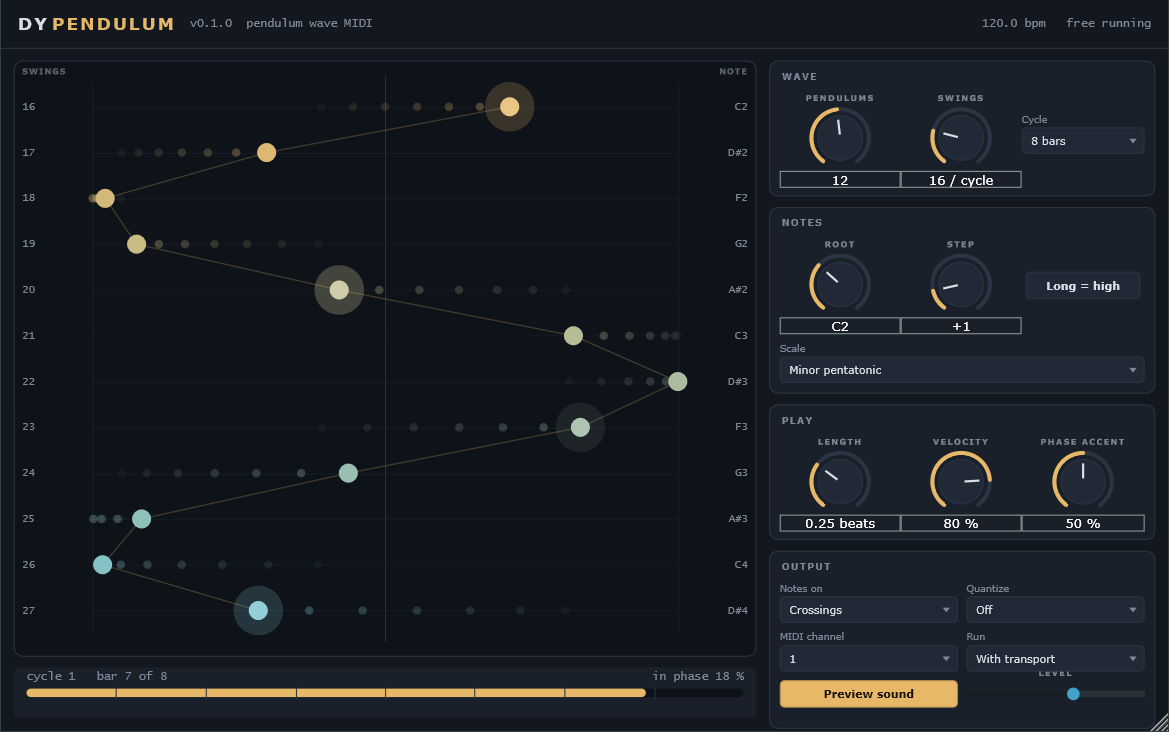
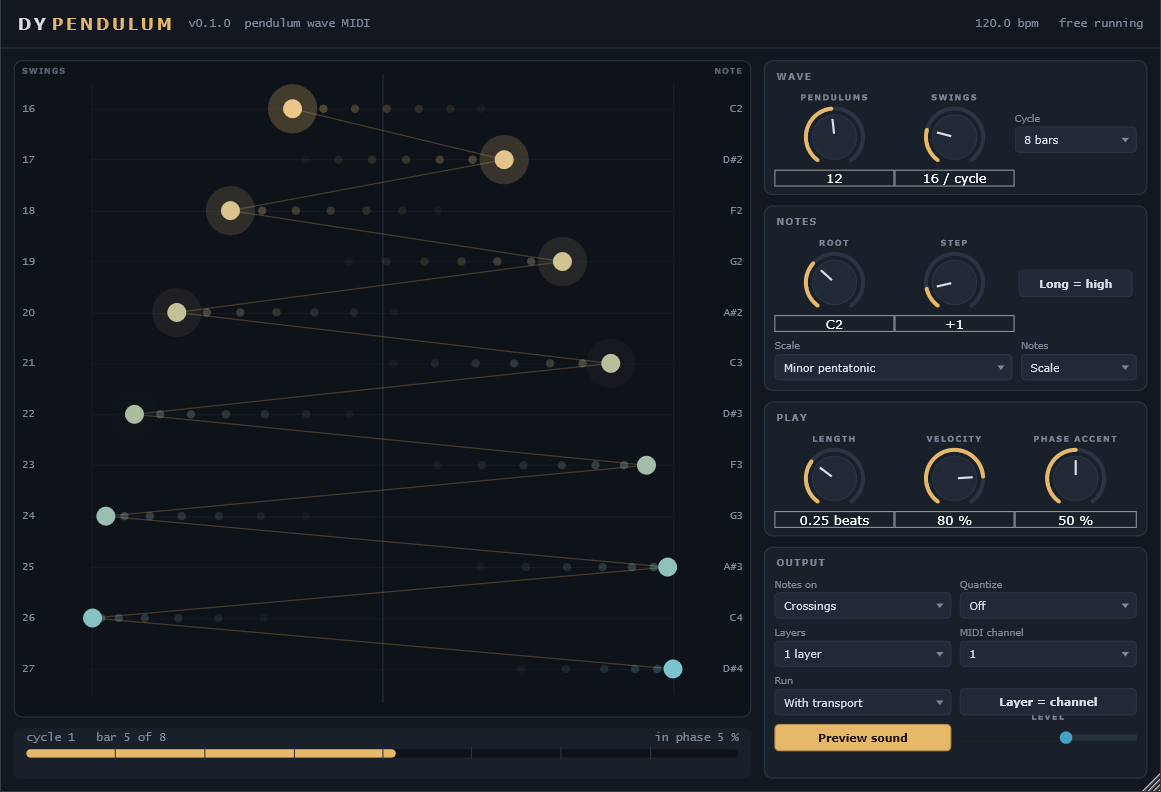
DY Pendulum 0.2.0: layers and drum pads to drive other tracks
- Notes: Drum pads mode, pendulum k plays C1 + k (one Drum Rack pad each)
- Layers 1-4: neighbouring pendulums in groups, each group's scale in its own
  two-octave band, so receiving tracks pick a layer with Live's Pitch device
- Layer = channel: each layer also on its own MIDI channel (multitimbral / hardware)
- Display colours the layers and shows channels; tests for pads, layer bands
  and per-layer channels

diff --git a/Pendulum/Source/PluginEditor.cpp b/Pendulum/Source/PluginEditor.cpp
@@ -85,7 +85,8 @@ void WaveView::paint (juce::Graphics& g)
     {
         const float y = area.getY() + (k + 0.5f) * rowH;
         const float t = n > 1 ? static_cast<float> (k) / static_cast<float> (n - 1) : 0.0f;
-        const auto col = Colours::brass.interpolatedWith (Colours::teal, t);
+        static const juce::Colour layerCols[4] = { Colours::brass, Colours::teal, Colours::lilac, juce::Colour (0xffe58f8f) };
+        const auto col = e.getParams().layers > 1 ? layerCols[e.layerOf (k)] : Colours::brass.interpolatedWith (Colours::teal, t);
         g.setColour (Colours::line.withAlpha (0.25f));
         g.drawHorizontalLine (juce::roundToInt (y), cx - amp, cx + amp);
 
@@ -112,7 +113,9 @@ void WaveView::paint (juce::Graphics& g)
 
         g.setColour (Colours::dim);
         g.setFont (monoFont (10.0f));
-        g.drawText (juce::MidiMessage::getMidiNoteName (e.noteOf (k), true, true, 3), juce::Rectangle<float> (r.getRight() - 52.0f, y - 7.0f, 44.0f, 14.0f),
+        juce::String label = juce::MidiMessage::getMidiNoteName (e.noteOf (k), true, true, 3);
+        if (e.getParams().layerChannels) label << " ch" << e.channelOf (k);
+        g.drawText (label, juce::Rectangle<float> (r.getRight() - 58.0f, y - 7.0f, 50.0f, 14.0f),
                     juce::Justification::centredRight);
         g.drawText (juce::String (static_cast<int> (e.swingsOf (k))), juce::Rectangle<float> (r.getX() + 8.0f, y - 7.0f, 40.0f, 14.0f),
                     juce::Justification::centredLeft);
@@ -158,15 +161,22 @@ PendulumEditor::PendulumEditor (PendulumProcessor& p)
       accent (p.apvts, PID::accent, "Phase accent"), level (p.apvts, PID::previewLevel, "Level"),
       cycleBars (p.apvts, PID::cycleBars, "Cycle"), trigger (p.apvts, PID::trigger, "Notes on"), quantize (p.apvts, PID::quantize, "Quantize"),
       scale (p.apvts, PID::scale, "Scale"), channel (p.apvts, PID::channel, "MIDI channel"), run (p.apvts, PID::run, "Run"),
-      descending (p.apvts, PID::descending, "Long = high"), preview (p.apvts, PID::preview, "Preview sound")
+      noteMode (p.apvts, PID::noteMode, "Notes"), layers (p.apvts, PID::layers, "Layers"),
+      descending (p.apvts, PID::descending, "Long = high"), preview (p.apvts, PID::preview, "Preview sound"),
+      layerChannels (p.apvts, PID::layerChannels, "Layer = channel")
 {
     setLookAndFeel (&lnf);
     addAndMakeVisible (content);
     for (auto* c : std::initializer_list<juce::Component*> { &wave, &cycle, &count, &swings, &root, &step, &length, &velocity, &accent, &level,
-                                                              &cycleBars, &trigger, &quantize, &scale, &channel, &run, &descending, &preview })
+                                                              &cycleBars, &trigger, &quantize, &scale, &channel, &run, &descending, &preview,
+                                                              &noteMode, &layers, &layerChannels })
         content.addAndMakeVisible (c);
     swings.slider.setTooltip ("Full swings the longest pendulum makes in one cycle; each next one makes one more");
     accent.slider.setTooltip ("Notes get louder the more the pendulums are in phase: loudest when they line up");
+    layers.box.setTooltip ("Split the pendulums into groups, each two octaves higher than the last: on each receiving track, "
+                           "Live's Pitch device (Lowest / Range, Block) picks which group that track plays");
+    noteMode.box.setTooltip ("Drum pads: pendulum 1 plays C1, the next C#1 and so on, one Drum Rack pad each");
+    layerChannels.setTooltip ("Each layer also on its own MIDI channel, for multitimbral instruments and hardware");
     preview.setTooltip ("A built-in bell so you hear it straight away. Turn off to play another instrument from the MIDI output");
     setResizable (true, true);
     setResizeLimits (kW / 2, kH / 2, kW * 2, kH * 2);
@@ -225,7 +235,7 @@ void PendulumEditor::resized()
 
     const int x0 = wave.getRight() + pad, w = kW - x0 - pad;
     int y = top;
-    const int heights[4] = { 128, 176, 128, 168 };
+    const int heights[4] = { 128, 176, 128, 220 };
     for (int i = 0; i < 4; ++i) { panels[i] = { x0, y, w, heights[i] }; y += heights[i] + 10; }
     auto inner = [&] (int i) { auto r = panels[i].reduced (10, 8); r.removeFromTop (20); return r; };
     {
@@ -243,7 +253,10 @@ void PendulumEditor::resized()
         step.setBounds (row.removeFromLeft (kw));
         descending.setBounds (row.withSizeKeepingCentre (row.getWidth() - 8, 26));
         r.removeFromTop (6);
-        scale.setBounds (r.removeFromTop (40));
+        auto row2 = r.removeFromTop (40);
+        noteMode.setBounds (row2.removeFromRight (110));
+        row2.removeFromRight (8);
+        scale.setBounds (row2);
     }
     {
         auto r = inner (2);
@@ -261,9 +274,14 @@ void PendulumEditor::resized()
         quantize.setBounds (row);
         r.removeFromTop (6);
         auto row2 = r.removeFromTop (40);
-        channel.setBounds (row2.removeFromLeft (cw));
+        layers.setBounds (row2.removeFromLeft (cw));
         row2.removeFromLeft (8);
-        run.setBounds (row2);
+        channel.setBounds (row2);
+        r.removeFromTop (6);
+        auto rowL = r.removeFromTop (40);
+        run.setBounds (rowL.removeFromLeft (cw));
+        rowL.removeFromLeft (8);
+        layerChannels.setBounds (rowL.withTrimmedTop (14));
         r.removeFromTop (8);
         auto row3 = r.removeFromTop (26);
         preview.setBounds (row3.removeFromLeft (cw));

diff --git a/Pendulum/Source/Engine/PendulumEngine.cpp b/Pendulum/Source/Engine/PendulumEngine.cpp
@@ -22,6 +22,8 @@ void PendulumEngine::setParams (const PendulumParams& p)
     params.step       = std::clamp (params.step, 0, 12);
     params.noteBeats  = std::clamp (params.noteBeats, 1.0 / 64.0, 16.0);
     params.channel    = std::clamp (params.channel, 1, 16);
+    params.noteMode   = std::clamp (params.noteMode, 0, 1);
+    params.layers     = std::clamp (params.layers, 1, std::min (4, params.count));
 }
 
 double PendulumEngine::position (int k, double ppq) const
@@ -59,13 +61,29 @@ double PendulumEngine::lastEventBefore (int k, double ppq) const
     return -1e18;
 }
 
+int PendulumEngine::layerOf (int k) const
+{
+    return std::clamp (k * params.layers / std::max (1, params.count), 0, params.layers - 1);
+}
+
+int PendulumEngine::channelOf (int k) const
+{
+    return std::clamp (params.channel + (params.layerChannels ? layerOf (k) : 0), 1, 16);
+}
+
 int PendulumEngine::noteOf (int k) const
 {
-    const auto& sc = kScales[params.scale];
     const int idx = params.descending ? params.count - 1 - k : k;
-    const int degree = idx * params.step;
+    if (params.noteMode == 1) return std::clamp (36 + idx, 0, 127);          // one Drum Rack pad each
+    const auto& sc = kScales[params.scale];
+    // with layers, each group of pendulums climbs the scale from its own band
+    const int layer = layerOf (k);
+    auto firstOf = [&] (int L) { return (L * params.count + params.layers - 1) / params.layers; };   // first pendulum of layer L
+    const int inLayer = params.layers > 1 ? (params.descending ? firstOf (layer + 1) - 1 - k : k - firstOf (layer)) : idx;
+    const int degree = inLayer * params.step;
+    const int band = params.layers > 1 ? layer * kLayerSpan : 0;
     const int oct = degree / sc.size, d = degree % sc.size;
-    return std::clamp (params.root + 12 * oct + sc.steps[d], 0, 127);
+    return std::clamp (params.root + band + 12 * oct + sc.steps[d], 0, 127);
 }
 
 void PendulumEngine::allNotesOff (int sample, std::vector<NoteEvent>& out)
@@ -137,19 +155,19 @@ void PendulumEngine::process (double p0, double bpm, int n, std::vector<NoteEven
     for (const auto& h : found)
     {
         releaseUntil (p0, p1, h.t + 1e-12, n, out);       // notes that ended up to here, first
-        const int note = noteOf (h.k), s = toSample (h.t);
+        const int note = noteOf (h.k), s = toSample (h.t), ch = channelOf (h.k);
         // a note still sounding is released first
         for (auto it = sounding.begin(); it != sounding.end(); ++it)
-            if (it->note == note && it->channel == params.channel)
+            if (it->note == note && it->channel == ch)
             {
-                out.push_back ({ s, note, 0.0f, false, h.k, params.channel });
+                out.push_back ({ s, note, 0.0f, false, h.k, ch });
                 sounding.erase (it);
                 break;
             }
         const float coh = static_cast<float> (coherence (h.t));
         const float vel = std::clamp (params.velocity * (1.0f - params.accent * (1.0f - coh)), 1.0f / 127.0f, 1.0f);
-        out.push_back ({ s, note, vel, true, h.k, params.channel });
-        sounding.push_back ({ note, params.channel, h.t + params.noteBeats });
+        out.push_back ({ s, note, vel, true, h.k, ch });
+        sounding.push_back ({ note, ch, h.t + params.noteBeats });
         hits[static_cast<size_t> (h.k)] = h.t;
     }
     // notes shorter than the rest of the block end inside it

diff --git a/Pendulum/Source/PluginProcessor.cpp b/Pendulum/Source/PluginProcessor.cpp
@@ -71,12 +71,15 @@ static juce::AudioProcessorValueTreeState::ParameterLayout layout()
     l.add (std::make_unique<AudioParameterBool>   (id (PID::preview), "Preview Sound", true));
     l.add (std::make_unique<AudioParameterFloat>  (id (PID::previewLevel), "Preview Level", NormalisableRange<float> (0.0f, 1.0f), 0.6f, pct));
     l.add (std::make_unique<AudioParameterChoice> (id (PID::run), "Run", StringArray { "With transport", "Always" }, 0));
+    l.add (std::make_unique<AudioParameterChoice> (id (PID::noteMode), "Notes", StringArray { "Scale", "Drum pads" }, 0));
+    l.add (std::make_unique<AudioParameterChoice> (id (PID::layers), "Layers", StringArray { "1 layer", "2 layers", "3 layers", "4 layers" }, 0));
+    l.add (std::make_unique<AudioParameterBool>   (id (PID::layerChannels), "Layer = Channel", false));
     return l;
 }
 
-static const juce::String* kIds[16] = { &PID::count, &PID::cycleBars, &PID::swings, &PID::trigger, &PID::quantize, &PID::root, &PID::scale,
+static const juce::String* kIds[19] = { &PID::count, &PID::cycleBars, &PID::swings, &PID::trigger, &PID::quantize, &PID::root, &PID::scale,
                                         &PID::step, &PID::descending, &PID::length, &PID::velocity, &PID::accent, &PID::channel,
-                                        &PID::preview, &PID::previewLevel, &PID::run };
+                                        &PID::preview, &PID::previewLevel, &PID::run, &PID::noteMode, &PID::layers, &PID::layerChannels };
 
 PendulumProcessor::PendulumProcessor()
     : AudioProcessor (BusesProperties().withOutput ("Output", juce::AudioChannelSet::stereo(), true)),
@@ -95,6 +98,7 @@ PendulumParams PendulumProcessor::readParams() const
     p.cycleBeats = 4.0 * (1 << i (1));
     p.swings = i (2); p.trigger = i (3); p.quantize = i (4); p.root = i (5); p.scale = i (6); p.step = i (7);
     p.descending = f (8) > 0.5f; p.noteBeats = f (9); p.velocity = f (10); p.accent = f (11); p.channel = i (12) + 1;
+    p.noteMode = i (16); p.layers = i (17) + 1; p.layerChannels = f (18) > 0.5f;
     return p;
 }
 
@@ -122,7 +126,8 @@ void PendulumProcessor::processBlock (juce::AudioBuffer<float>& buffer, juce::Mi
     // a change in the settings that moves notes releases what sounds, so nothing hangs
     const auto before = engine.getParams();
     const bool remap = before.count != p.count || before.root != p.root || before.scale != p.scale || before.step != p.step
-                    || before.descending != p.descending || before.channel != p.channel;
+                    || before.descending != p.descending || before.channel != p.channel
+                    || before.noteMode != p.noteMode || before.layers != p.layers || before.layerChannels != p.layerChannels;
     events.clear();
     if (remap) engine.allNotesOff (0, events);
     engine.setParams (p);

diff --git a/Pendulum/Tests/PendulumTests.cpp b/Pendulum/Tests/PendulumTests.cpp
@@ -130,6 +130,30 @@ int main()
         p.descending = true; e.setParams (p);
         CHECK (e.noteOf (0) == 63 && e.noteOf (6) == 48);
     }
+    std::puts ("Layers and pads");
+    {   // drum pads: one pad each from C1
+        PendulumParams p; p.count = 8; p.noteMode = 1;
+        PendulumEngine e; e.setParams (p);
+        for (int k = 0; k < 8; ++k) CHECK (e.noteOf (k) == 36 + k);
+    }
+    {   // layers: neighbouring groups, each in its own two-octave band, optionally on its own channel
+        PendulumParams p; p.count = 10; p.layers = 4; p.root = 36; p.scale = 0; p.step = 1; p.layerChannels = true; p.channel = 3;
+        PendulumEngine e; e.prepare (sr); e.setParams (p);
+        const int wantLayer[10] = { 0, 0, 0, 1, 1, 2, 2, 2, 3, 3 };
+        for (int k = 0; k < 10; ++k)
+        {
+            CHECK (e.layerOf (k) == wantLayer[k]);
+            CHECK (e.channelOf (k) == 3 + wantLayer[k]);
+            CHECK (e.noteOf (k) >= 36 + kLayerSpan * wantLayer[k] && e.noteOf (k) < 36 + kLayerSpan * (wantLayer[k] + 1));
+        }
+        CHECK (e.noteOf (0) == 36 && e.noteOf (3) == 60 && e.noteOf (4) == 61 && e.noteOf (5) == 84);
+        // the events carry the layer's channel
+        std::vector<NoteEvent> ev;
+        for (int b = 0; b < 400; ++b) e.process (b * 512 / 24000.0, 120.0, 512, ev);
+        bool ok = ! ev.empty();
+        for (auto& x : ev) if (x.on) ok &= x.channel == e.channelOf (x.pendulum);
+        CHECK (ok);
+    }
     {   // the pendulums really line up again: all at +1 at the cycle, spread out at half
         PendulumParams p; p.count = 15; p.swings = 30; p.cycleBeats = 60;
         PendulumEngine e; e.setParams (p);

diff --git a/Pendulum/Source/Engine/PendulumEngine.h b/Pendulum/Source/Engine/PendulumEngine.h
@@ -58,7 +58,15 @@ struct PendulumParams
     float  velocity = 0.8f;          // 0..1
     float  accent = 0.5f;            // 0..1: how much being in phase with the others adds
     int    channel = 1;              // 1..16
+    // ---- layers (v0.2): drive several tracks / pads from one wave
+    int    noteMode = 0;             // 0 scale notes, 1 drum pads (pendulum k plays C1 + k)
+    int    layers = 1;               // 1..4 groups of neighbouring pendulums
+    bool   layerChannels = false;    // each layer on its own MIDI channel (channel, channel + 1, ...)
 };
+
+// Layer L of the scale notes starts this many semitones above the root, so a
+// receiving track can pick its layer with Live's Pitch device (Lowest / Range).
+constexpr int kLayerSpan = 24;
 
 struct NoteEvent
 {
@@ -93,6 +101,8 @@ public:
     double position (int k, double ppq) const;               // -1..1, +1 = released side
     double coherence (double ppq) const;                     // 0..1: 1 = all in one line
     int    noteOf (int k) const;
+    int    layerOf (int k) const;
+    int    channelOf (int k) const;
     double lastHit (int k) const { return hits[static_cast<size_t> (clampIndex (k))]; }
     // when pendulum k last made (or would have made) a note, at or before ppq
     double lastEventBefore (int k, double ppq) const;

diff --git a/Pendulum/Source/PluginProcessor.h b/Pendulum/Source/PluginProcessor.h
@@ -10,7 +10,8 @@ namespace PID
     inline const juce::String count = "count", cycleBars = "cycleBars", swings = "swings", trigger = "trigger",
         quantize = "quantize", root = "root", scale = "scale", step = "step", descending = "descending",
         length = "length", velocity = "velocity", accent = "accent", channel = "channel",
-        preview = "preview", previewLevel = "previewLevel", run = "run";
+        preview = "preview", previewLevel = "previewLevel", run = "run",
+        noteMode = "noteMode", layers = "layers", layerChannels = "layerChannels";
 }
 
 // A small polyphonic bell so the plugin is audible on its own (turn it off to play
@@ -73,7 +74,7 @@ private:
     std::vector<NoteEvent> events;
     double freePpq = 0.0, lastPpq = -1.0;
     bool wasRunning = false;
-    std::array<std::atomic<float>*, 16> raw {};
+    std::array<std::atomic<float>*, 19> raw {};
 
     JUCE_DECLARE_NON_COPYABLE_WITH_LEAK_DETECTOR (PendulumProcessor)
 };

diff --git a/Pendulum/Source/PluginEditor.h b/Pendulum/Source/PluginEditor.h
@@ -69,7 +69,7 @@ public:
     ~PendulumEditor() override;
     void paint (juce::Graphics&) override;
     void resized() override;
-    static constexpr int kW = 1100, kH = 690;
+    static constexpr int kW = 1100, kH = 752;
 
 private:
     void timerCallback() override;
@@ -79,8 +79,8 @@ private:
     WaveView wave;
     CycleBar cycle;
     Knob count, swings, root, step, length, velocity, accent, level;
-    Combo cycleBars, trigger, quantize, scale, channel, run;
-    Toggle descending, preview;
+    Combo cycleBars, trigger, quantize, scale, channel, run, noteMode, layers;
+    Toggle descending, preview, layerChannels;
     juce::Rectangle<int> panels[4];
     double shownPpq = 0.0;
     double lastUpdate = 0.0, lastTelemetryPpq = -1.0;

diff --git a/Pendulum/README.md b/Pendulum/README.md
@@ -43,7 +43,24 @@ in phase the pendulums are right now.
 Drag **DY Pendulum** onto a MIDI track and press play: the built-in bell plays.
 To drive your own instrument, turn **Preview sound** off, and on a second MIDI
 track set *MIDI From* to the DY Pendulum track, second box "DY Pendulum",
-*Monitor* In, and put the instrument there. Long cycles (16 to 64 bars) make
+*Monitor* In, and put the instrument there. ### Driving other tracks
+
+Every track that sets *MIDI From* to the DY Pendulum track (second box "DY
+Pendulum", Monitor In) receives the whole wave; Live cannot filter a track's MIDI
+input by channel, so DY Pendulum splits the wave by notes instead:
+
+- **Notes: Drum pads**: pendulum 1 plays C1, the next C#1, and so on. Send it to
+  a Drum Rack and every pendulum is its own pad / sample.
+- **Layers** (1 to 4): neighbouring pendulums form groups, and each group plays
+  its scale in its own two-octave band above the root (layer 1 from the root,
+  layer 2 two octaves up, ...). On each receiving track put Live's **Pitch**
+  device first, mode *Block*, with *Lowest* at the start of the band you want and
+  *Range* 24, and transpose back down with Pitch if you like: one track plays the
+  long, slow pendulums, another the fast ones.
+- **Layer = channel** also puts each layer on its own MIDI channel, for
+  multitimbral instruments and hardware synths, which do filter by channel.
+
+Long cycles (16 to 64 bars) make
 slow-evolving patterns for ambient and minimal; short cycles with Quantize make
 tight, shifting poly-rhythms.
 

diff --git a/README.md b/README.md
@@ -8,7 +8,7 @@ scripts.
 |---|---|---|
 | [Sequencer](Sequencer/README.md) | DY Sequencer: 16-track Euclidean, scale-aware MIDI step sequencer with patterns, chains, conditions and chord follow | v0.5.0 |
 | [Nodal](Nodal/README.md) | DY Nodal: Chladni plate resonator, as an effect and as an instrument. Up to 32 tuned modes of four real free-edge plates (solved and checked against published values) and three 3D shells, body size stepped through a scale, six materials, 8-voice MIDI playing with mallet / pluck / bow / breath exciters, sidechain, LFOs / input follower / pitch follow, and GPU sand that shows which modes are ringing | v0.5.0 |
-| [Pendulum](Pendulum/README.md) | DY Pendulum: a pendulum wave as a MIDI generator. Up to 24 pendulums drift into waves and line up again every cycle, each swing plays a scale note, song-position exact, with a built-in preview bell | v0.1.0 |
+| [Pendulum](Pendulum/README.md) | DY Pendulum: a pendulum wave as a MIDI generator. Up to 24 pendulums drift into waves and line up again every cycle, each swing plays a scale note, song-position exact, layers and drum-pad mode to drive other tracks, built-in preview bell | v0.2.0 |
 
 ![DY Sequencer](docs/screenshot-v0.4-dark.png)
 
